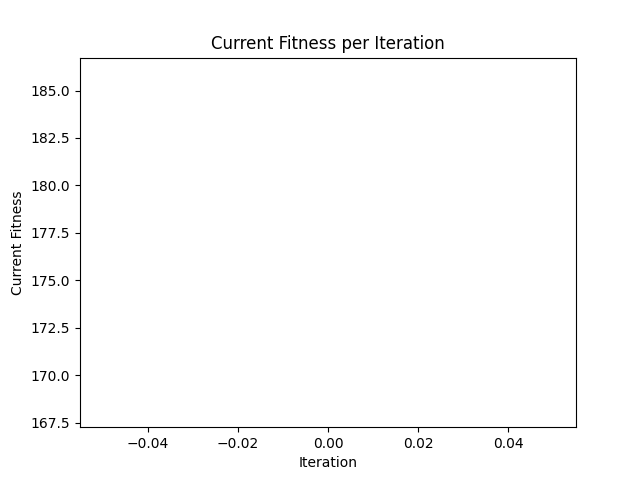
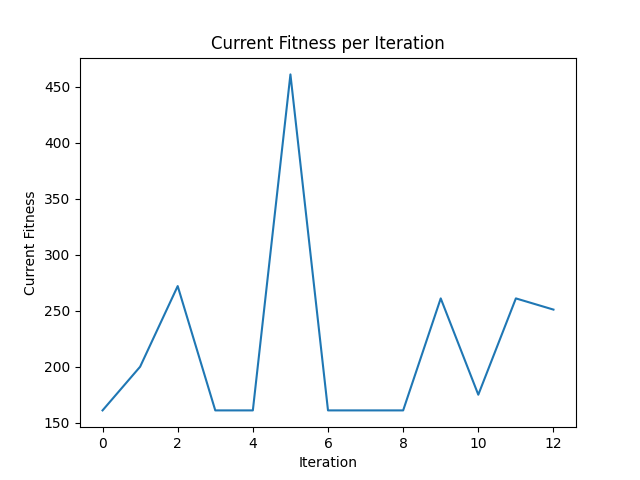
Commit after final report.

diff --git a/gameobjects.py b/gameobjects.py
@@ -4,56 +4,69 @@ import random
 WIDTH, HEIGHT = 800, 600
 HUD_HEIGHT = 150
 BARRIER_SEED = 20
+
 class GameObject:
     x = 0
     y = 0
-    
-    def __init__(self, image_path, x=0, y=0, offset = (0, 0)):
+
+    def __init__(self, image_path, x=0, y=0, offset=(0, 0)):
         self.children = []
-        self.image = pygame.image.load(image_path)  # Load the image
-        self.rect = self.image.get_rect(topleft=(x,y))  # Set the rectangle for the image
-        self.set_position(x, y)  # Set initial position
+        self.image = pygame.image.load(image_path)
+        self.rect = self.image.get_rect(topleft=(x, y))
+        self.set_position(x, y)
         self.offset = offset
+
     def draw(self, surface):
-        surface.blit(self.image, self.rect)  # Draw the image on the surface
-        if len(self.children) == 0: return
+        surface.blit(self.image, self.rect)
+        if len(self.children) == 0:
+            return
         for child in self.children:
             child.draw(surface)
+
     def set_position(self, x, y):
-        self.rect.x = x  # Update rectangle position
+        self.rect.x = x
         self.rect.y = y
-        self.x = x  # Update object position
+        self.x = x
         self.y = y
-        if len(self.children) == 0: return
+        if len(self.children) == 0:
+            return
         for child in self.children:
             child.set_position(x + child.offset[0], y + child.offset[1])
+
     def move(self, dx, dy):
-        self.set_position(self.rect.x + dx, self.rect.y + dy)  # Move object by dx and dy
-        if len(self.children) == 0: return
+        self.set_position(self.rect.x + dx, self.rect.y + dy)
+        if len(self.children) == 0:
+            return
         for child in self.children:
             self.set_position(self.rect.x + dx, self.rect.y + dy)
+
     def set_size(self, width, height):
-        self.image = pygame.transform.scale(self.image, (width,height))  # Resize the image
-        self.rect = self.image.get_rect(topleft=(self.x,self.y))  # Update rectangle size
+        self.image = pygame.transform.scale(self.image, (width, height))
+        self.rect = self.image.get_rect(topleft=(self.x, self.y))
+
     def scale_by(self, scale):
-        self.image = pygame.transform.scale(self.image, (self.image.get_width() * scale, self.image.get_height() * scale))  # Scale the image
-        self.rect = self.image.get_rect(topleft=(self.x,self.y))  # Update rectangle size
+        self.image = pygame.transform.scale(self.image, (self.image.get_width() * scale, self.image.get_height() * scale))
+        self.rect = self.image.get_rect(topleft=(self.x, self.y))
+
     def get_position(self):
-        return (self.x, self.y)  # Return current position
+        return (self.x, self.y)
+
     def set_children(self, child):
         self.children.append(child)
-    def recolor(self, color): #Method to recolor
+
+    def recolor(self, color):
         self.image.fill(color, special_flags=pygame.BLEND_MULT)
-        self.image.set_colorkey(None)  # Explicitly disable colorkey
+        self.image.set_colorkey(None)
 
 class Horse(GameObject):
-    default_vacceleration = 0.2  # Default acceleration value
-    vspeed = 0  # Vertical speed
-    vacceleration = 0  # Vertical acceleration
-    stopped = False  # Whether the horse is stopped
-    color = ()  # Color of the horse's mark
+    default_vacceleration = 0.2
+    vspeed = 0
+    vacceleration = 0
+    stopped = False
+    color = ()
     ribbon_fill = None
     ribbon_out = None
+
     def __init__(self, image_path, x, y):
         super().__init__(image_path, x, y)
         self.images = []
@@ -67,127 +80,125 @@ class Horse(GameObject):
         self.vacceleration = 0
         self.stopped = False
         self.fitness = 0
-        self.color = (random.randint(0, 255), random.randint(0, 255), random.randint(0, 255))  # Random color for the mark
+        self.color = (random.randint(0, 255), random.randint(0, 255), random.randint(0, 255))
         self.ribbon_fill = GameObject("images/Ribbon_fill.png", self.x, self.y, (16, -1))
         self.ribbon_fill.recolor(self.color)
         self.ribbon_out = GameObject("images/Ribbon_out.png", self.x, self.y, (14, -2))
         self.set_children(self.ribbon_fill)
         self.set_children(self.ribbon_out)
-        # self.set_size(75, 75)  # Set the size of the horse
+
     def apply_vspeed(self):
         pos = self.get_position()
-        self.set_position(pos[0], pos[1] + self.vspeed)  # Apply vertical speed to position
+        self.set_position(pos[0], pos[1] + self.vspeed)
+
     def apply_vacceleration(self):
-        self.vspeed += self.vacceleration  # Apply acceleration to speed
+        self.vspeed += self.vacceleration
+
     def set_vspeed(self, speed):
-        self.vspeed = speed  # Set vertical speed
+        self.vspeed = speed
+
     def add_vspeed(self, delta):
-        self.vspeed += delta  # Add to vertical speed
+        self.vspeed += delta
+
     def set_vacceleration(self, vacceleration):
-        self.vacceleration = vacceleration  # Set vertical acceleration
+        self.vacceleration = vacceleration
+
     def up(self):
-        self.set_vacceleration(-self.default_vacceleration)  # Move up
+        self.set_vacceleration(-self.default_vacceleration)
+
     def down(self):
-        self.set_vacceleration(self.default_vacceleration)  # Move down
+        self.set_vacceleration(self.default_vacceleration)
+
     def stay(self):
-        self.set_vacceleration(0)  # Stop vertical movement
+        self.set_vacceleration(0)
+
     def stop(self):
-        self.stopped = True  # Stop the horse
+        self.stopped = True
         self.set_vacceleration(0)
         self.set_vspeed(0)
+
     def draw(self, surface):
-        super().draw(surface)  # Draw the horse
-        #pygame.draw.rect(surface, self.color, (self.x + 40, self.y + 20, 25, 25))  # Draw the horse's mark
+        super().draw(surface)
+
     def update_animation(self):
         self.frame_counter += 1
         if self.frame_counter >= self.animation_speed:
             self.frame_counter = 0
             self.current_frame = (self.current_frame + 1) % len(self.images)
             self.image = self.images[self.current_frame]
+
     def count_fitness(self):
         if self.stopped == False:
             self.fitness += 1
-            if self.vspeed == 0: self.fitness -= 0.9
+        if self.vspeed == 0:
+            self.fitness -= 0.9
 
 class Background(GameObject):
     def __init__(self, image_path, x, y):
-        super().__init__(image_path, x, y)  # Initialize background
+        super().__init__(image_path, x, y)
 
 class Barrier(GameObject):
     def __init__(self, image_path, x, y):
-        super().__init__(image_path, x, y)  # Initialize barrier
+        super().__init__(image_path, x, y)
         self.scale_by(5)
 
 class UI:
     iteration_num = 0
-    horses = []  # List of child objects
-    horizontal_offset = 25  # Horizontal spacing between marks
-    vertical_offset = -25  # Vertical spacing between marks
-    mark_size = 25  # Size of the marks
+    horses = []
+    horizontal_offset = 25
+    vertical_offset = -25
+    mark_size = 25
+
     def __init__(self, hud_image_path, x=0, y=HEIGHT):
-        self.horses = []  # Initialize children list
+        self.horses = []
         self.hud_image = pygame.image.load(hud_image_path)
-        self.hud_rect = self.hud_image.get_rect(topleft=(x,y))
+        self.hud_rect = self.hud_image.get_rect(topleft=(x, y))
+
     def add_horses(self, children):
-        new_horses = [child for child in children if child not in self.horses]  # Add new children
+        new_horses = [child for child in children if child not in self.horses]
         self.horses.extend(new_horses)
 
     def draw_marks(self, screen):
         active_marks = [horse for horse in self.horses if not horse.stopped]
         unactive_marks = [horse for horse in self.horses if horse.stopped]
-    
-        width = 10  # Number of marks per row
-    
-        # Отрисовка активных меток
-        xa = 0  # Horizontal position for active marks
-        ya = HEIGHT + HUD_HEIGHT - self.mark_size  # Vertical position for active marks
-    
+        width = 10
+        xa = 0
+        ya = HEIGHT + HUD_HEIGHT - self.mark_size
         for i, horse in enumerate(active_marks):
             pygame.draw.rect(screen, horse.color, (xa, ya, self.mark_size, self.mark_size))
-            xa += self.horizontal_offset  # Move to the next position
-    
-            # Move to the next row if the row is full
-            if (i + 1) % width == 0:  # Check if the next mark would be on a new row
+            xa += self.horizontal_offset
+            if (i + 1) % width == 0:
                 ya += self.vertical_offset
-                xa = 0  # Reset horizontal position for the new row
-    
-        # Отрисовка неактивных меток
-        xu = WIDTH - self.mark_size  # Horizontal position for inactive marks
-        yu = HEIGHT + HUD_HEIGHT - self.mark_size  # Vertical position for inactive marks
-    
+                xa = 0
+        xu = WIDTH - self.mark_size
+        yu = HEIGHT + HUD_HEIGHT - self.mark_size
         for i, horse in enumerate(unactive_marks):
             pygame.draw.rect(screen, horse.color, (xu, yu, self.mark_size, self.mark_size))
-            xu -= self.horizontal_offset  # Move to the next position
-    
-            # Move to the next row if the row is full
-            if (i + 1) % width == 0:  # Check if the next mark would be on a new row
+            xu -= self.horizontal_offset
+            if (i + 1) % width == 0:
                 yu += self.vertical_offset
-                xu = WIDTH - self.mark_size # Reset horizontal position for the new row
+                xu = WIDTH - self.mark_size
 
     def draw(self, surface):
         surface.blit(self.hud_image, self.hud_rect)
 
-        
-
-
 class Spawner:
-    active = True  # Whether the spawner is active
-    delay = 500  # Number of ticks between spawns
-    tick_counter = 0  # Counter for ticks
+    active = True
+    delay = 500
+    tick_counter = 0
 
     def __init__(self, barrier_image_path, delay):
-        self.barrier_image_path = barrier_image_path  # Path to the barrier image
+        self.barrier_image_path = barrier_image_path
         self.delay = delay
 
     def handle(self):
         if self.active:
-            self.tick_counter += 1  # Increment tick counter
-            if self.tick_counter >= self.delay:  # Check if it's time to spawn
+            self.tick_counter += 1
+            if self.tick_counter >= self.delay:
                 self.spawn()
-                self.tick_counter = 0  # Reset tick counter
+                self.tick_counter = 0
 
     def spawn(self):
-
-        random_y = random.randint(0, HEIGHT - 100, )  # Random Y position for the barrier
-        new_barrier = Barrier(self.barrier_image_path, WIDTH, random_y)  # Create a new barrier
+        random_y = random.randint(0, HEIGHT - 100)
+        new_barrier = Barrier(self.barrier_image_path, WIDTH, random_y)
         return new_barrier

diff --git a/main.py b/main.py
@@ -3,11 +3,11 @@ import sys
 from gameobjects import *
 from genetic_alg import GeneticAlgorithm
 import matplotlib
-matplotlib.use('Agg')  # Используем Agg бэкенд для сохранения в файл
+matplotlib.use('Agg')
 import matplotlib.pyplot as plt
 import random
 
-POPULATION_SIZE = 500
+POPULATION_SIZE = 50 # SET TO 500 IF YOU HAVE A GOOD PC
 MUTATION_RATE = 0.5
 POPULATION_NEW = 0.1
 POPULATION_BEST = 0.3
@@ -42,7 +42,7 @@ last_barrier = None
 
 def init_game():
     global gameobjects, horses, barriers, upper_bound_rect, lower_bound_rect, spawner, last_barrier, BARRIER_SPEED
-    #random.seed(BARRIER_SEED)
+    #random.seed(BARRIER_SEED) #SET SEED
     grass = Background("images/Grass.jpg", 0, 0)
     grass.set_size(WIDTH, HEIGHT)
 
@@ -96,7 +96,7 @@ while True:
             plt.xlabel("Iteration")
             plt.ylabel("Current Fitness")
             plt.title("Current Fitness per Iteration")
-            plt.savefig('fitness_plot.png')  # Сохраняем график в файл
+            plt.savefig('fitness_plot.png')
             pygame.quit()
             sys.exit()
 
@@ -160,7 +160,7 @@ while True:
     UI.draw(screen)
     UI.draw_marks(screen)
 
-    iteration_num_txt = font.render(f"iteration: {current_iteration}", True, BLACK)
+    iteration_num_txt = font.render(f"Iteration: {current_iteration}", True, BLACK)
     current_fitness_txt = font.render(
         f"Current Fitness: {current_fitness}", True, BLACK)
     best_fitness_txt = font.render(

diff --git a/README.md b/README.md
@@ -3,3 +3,6 @@
 2. Install necessary libraries using `pip install -r requirements.txt`
 3. Edit parametres in `main.py` (Optionally)
 4. Run simulation using `py main.py` or `python3 main.py`
+
+## Note
+You can see the generated fitness statistics plot in fitness_plot.png after closing the game.
